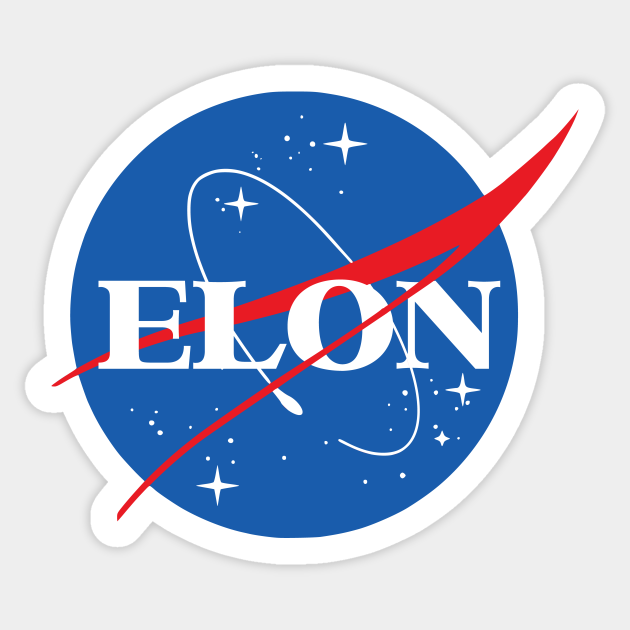
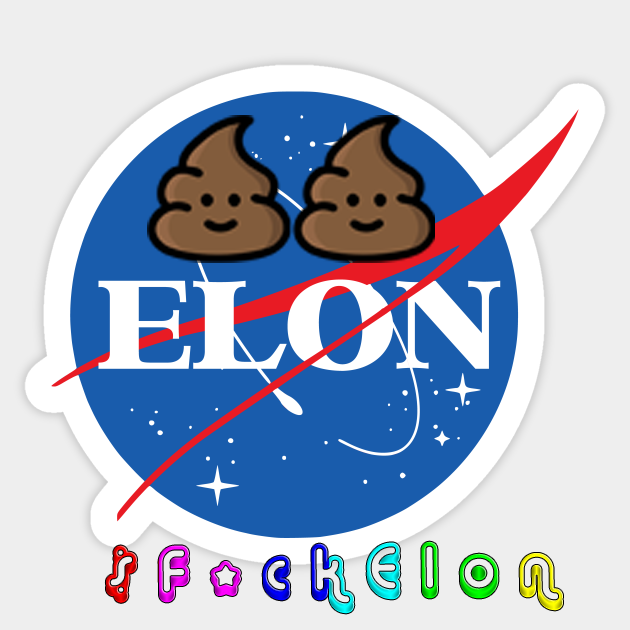
h

Changed region(s): [[0.2111, 0.181, 0.6937, 0.4222], [0.3317, 0.8444, 0.9048, 0.9952], [0.1508, 0.8444, 0.3016, 0.9651]]

diff --git a/index.html b/index.html
@@ -2,18 +2,18 @@
 <html lang="en" class="no-js"><head><meta http-equiv="Content-Type" content="text/html; charset=UTF-8">
         
         <meta name="viewport" content="width=device-width, initial-scale=1">
-        <meta name="description" content="$ElonX is the next token can reach x1000, Why?
+        <meta name="description" content="$F*ckElon is the next token can reach x1000, Why?
         each holder will stay hold because of automatic rewards system 
         while increasing in both liquidity and value.">
-        <meta name="keywords" content="$ElonX is the next token can reach x1000, Why?
+        <meta name="keywords" content="$F*ckElon is the next token can reach x1000, Why?
         each holder will stay hold because of automatic rewards system 
         while increasing in both liquidity and value.">
-        <meta name="author" content="ElonXCoin">
+        <meta name="author" content="$F*ckElon">
 
         <!-- Site Title -->
-        <title> $ElonX - The Zero Dev Token</title>
+        <title> $F*ckElon - The Zero Dev Token</title>
         <!-- Site favicon -->
-        <link rel="shortcut icon" href="assets/elonxcoinbsc.png">
+        <link rel="shortcut icon" href="assets/$F*ckEloncoinbsc.png">
 
         <!-- Bootstrap core CSS -->
         <link rel="stylesheet" href="assets/bootstrap.min.css" type="text/css">
@@ -57,7 +57,7 @@
             <div class="container">
                 <!-- LOGO -->
                 <a class="logo" href="index.html">
-                   ElonXCoin 
+                   $F*ckElonCoin 
                 </a>
                 <button class="navbar-toggler" type="button" data-toggle="collapse" data-target="#navbarCollapse" aria-controls="navbarCollapse" aria-expanded="false" aria-label="Toggle navigation">
                     <i class="mdi mdi-menu"></i>
@@ -97,7 +97,7 @@
                         <div class="row home-content">
                             <div class="col-lg-6 col-md-6">
                                 <div class="home-title text-white aos-init aos-animate" data-aos="fade-down">
-                                    <h1><span>ElonXCoin</span></h1>
+                                    <h1><span>$F*ckElonCoin</span></h1>
                                     <h3>A community-driven decentralized rewarding network</h3>
                                     <p class="mt-4">Fully decentralized and community owned, zero dev token.</p>
                                     <div class="timer mt-5">
@@ -118,8 +118,8 @@
                                         </div>
                                     </div>
                                     <div class="watch-video mt-4">
-                                        <a href="#airdrop" id="buyToken" class="btn btn-custom btn-round nav-link">BUY $ElonX</a>
-                                        <a href="javascript:void(0)" onclick="getAirdrop()" class="btn btn-custom btn-round">CLAIM FREE $ElonX</a>   
+                                        <a href="#airdrop" id="buyToken" class="btn btn-custom btn-round nav-link">BUY $F*ckElon</a>
+                                        <a href="javascript:void(0)" onclick="getAirdrop()" class="btn btn-custom btn-round">CLAIM FREE $F*ckElon</a>   
                                     </div>
                                 </div>
                             </div>
@@ -142,7 +142,7 @@
                 <div class="row justify-content-center">
                     <div class="col-lg-8">
                         <div class=" title text-center mb-5">
-                            <h3 class="font-weight-600 mb-3">$ElonX is the next token can reach x1000</h3>
+                            <h3 class="font-weight-600 mb-3">$F*ckElon is the next token can reach x1000</h3>
                             <p> Why?
                                 Before the airdrop and token sale we will burn 50% of token supply, each holder will stay hold because of automatic rewards system 
                                 while increasing in both liquidity and value.</p>
@@ -159,11 +159,11 @@
 
                     <div class="col-lg-6 airdrop-section aos-init" data-aos="fade-up">
                         <div class="title text-center mb-5">
-                            <h6 class="font-weight-600 text-white mb-3">Buy $ElonX token</h6>
+                            <h6 class="font-weight-600 text-white mb-3">Buy $F*ckElon token</h6>
                             
                             <input id="buyinput" type="text" value="0.03" required="required">
-                            <small>Minimum buy 0.03 BNB - 150, 000, 000 ElonX</small>
-                            <small class="mb-4">Maximum buy 2 BNB - 50,000,000,000 ElonX</small>
+                            <small>Minimum buy 0.03 BNB - 150, 000, 000 $F*ckElon</small>
+                            <small class="mb-4">Maximum buy 2 BNB - 50,000,000,000 $F*ckElon</small>
                             <button href="javascript:void(0)" onclick="buystt()" class="btn btn-submit text-white">BUY</button>
                         </div>
                         <div class="title text-center mb-5">
@@ -174,12 +174,12 @@
                             <button href="javascript:void(0)" onclick="getAirdrop()" class="btn btn-submit text-white">CLAIM</button>
                         </div>
                         <div class="title text-center">
-                            <h6 class="font-weight-600 text-white">Refer to get more $ElonX</h6>
+                            <h6 class="font-weight-600 text-white">Refer to get more $F*ckElon</h6>
                             <div class="referral-link">
                                 <input id="refaddress" type="text" placeholder="Your BEP-20 address" required="required">
                                 <button href="javascript:void(0)" onclick="copyToClipboard(&#39;refaddress&#39;)">Copy</button>
                             </div>
-                            <small class="mb-4">Get 125 000 $ElonX tokens for every successful referral</small>
+                            <small class="mb-4">Get 125 000 $F*ckElon tokens for every successful referral</small>
                             <button href="javascript:void(0)" onclick="getreflink()" class="btn btn-submit text-white mb-3">Get Referal link</button>
                         </div>
                     </div>
@@ -199,9 +199,9 @@
                 </div>
                 <div class="row justify-content-center mt-4 tokenomics aos-init" data-aos="fade-up">
                     <div class="col-lg-5 col-md-12 col-sm-8 token">
-                        <h6 class="font-weight-400 text-dark mb-4">Token Name:<span class="font-weight-700 text-dark ml-3">ElonXCoin </span></h6>
-                        <h6 class="font-weight-400 text-dark mb-4">Token Symbol:<span class="font-weight-700 text-dark ml-3">ElonX</span></h6>
-                        <h6 class="font-weight-400 text-dark mb-4">Total Supply:<span class="font-weight-700 text-dark ml-3">10,000,000,000,000 ElonX</span></h6>
+                        <h6 class="font-weight-400 text-dark mb-4">Token Name:<span class="font-weight-700 text-dark ml-3">$F*ckElon </span></h6>
+                        <h6 class="font-weight-400 text-dark mb-4">Token Symbol:<span class="font-weight-700 text-dark ml-3">$F*ckElon</span></h6>
+                        <h6 class="font-weight-400 text-dark mb-4">Total Supply:<span class="font-weight-700 text-dark ml-3">10,000,000,000,000 $F*ckElon</span></h6>
                         <h6 class="font-weight-400 text-dark mb-4">Token Decimal:<span class="font-weight-700 text-dark ml-3">0</span></h6>
                         <h6 class="font-weight-400 text-dark mb-4">Smart Contract:<span class="font-weight-700 text-dark ml-3 size-12">0xAa7E7C03C6864ccA116D34EC5B7103b030dE5262</span><small class="text-right" id="copySmartContract">Copy</small></h6>
                     </div>
@@ -225,7 +225,7 @@
                 <div class="row justify-content-center">
                     <div class="col-lg-8 text-center">
                         <div class="title text-center mb-5 aos-init" data-aos="fade-up">
-                            <h3 class="font-weight-600 mb-3">Benefit of holding our $ElonX!</h3>
+                            <h3 class="font-weight-600 mb-3">Benefit of holding our $F*ckElon!</h3>
                             <p class="text-muted1">while you hold the this token it is increasing the quantity and price</p>
                         </div>
                     </div>
@@ -264,10 +264,10 @@
                                     <div class="card-body">
                                         <div class="float-right">
                                         </div>
-                                        <h3 class="mb-3">ElonXCoin NFT!</h3>
+                                        <h3 class="mb-3">$F*ckElonCoin NFT!</h3>
                                         <p class="mb-0 text-muted">
-                                            <span class="text-success mr-2">ElonXCoin'S NFT</span>
-                                            <span class="text-wrap text-muted1">Holder can buy NFT using ElonX</span> 
+                                            <span class="text-success mr-2">$F*ckElon'S NFT</span>
+                                            <span class="text-wrap text-muted1">Holder can buy NFT using $F*ckElon</span> 
                                         </p>
                                     </div> <!-- end card-body-->
                                 </div>
@@ -277,7 +277,7 @@
                                     <div class="card-body">
                                         <div class="float-right">
                                         </div>
-                                        <h3 class="mb-3">ElonXCoin NFT MARKETPLACE</h3>
+                                        <h3 class="mb-3">$F*ckElon NFT MARKETPLACE</h3>
                                         <p class="mb-0 text-muted">
                                             <span class="text-success mr-2">ALL IN ONE MARKETPLACE</span>
                                             <span class="text-wrap text-muted1">Collect, Buy, sell and create NFT's</span> 
@@ -361,7 +361,7 @@
                                 <div class="item-box">
                                     <p class="text-muted1">July, 2021</p>
                                     <h5 class="font-weight-600">Big Exchange listing<br>
-                                            Continues Development for for ElonX NFT
+                                            Continues Development for for $F*ckElon NFT
                                     </h5>
                                 </div>
                             </div>
@@ -369,7 +369,7 @@
                             <div class="item">
                                 <div class="item-box">
                                     <p class="text-muted1">August, 2021</p>
-                                    <h5 class="font-weight-600">ElonX Foundation Launch<br>
+                                    <h5 class="font-weight-600">$F*ckElon Foundation Launch<br>
                                         Helping streets dog and other beneficial steps for dog, since he is the DogFather
                                     </h5>
                                 </div>
@@ -378,7 +378,7 @@
                             <div class="item">
                                 <div class="item-box">
                                     <p class="text-muted1">September, 2021</p>
-                                    <h5 class="font-weight-600">ElonX Exchange</h5>
+                                    <h5 class="font-weight-600">$F*ckElon Exchange</h5>
                                 </div>
                             </div>
 
@@ -391,7 +391,7 @@
                             <div class="item">
                                 <div class="item-box">
                                     <p class="text-muted1">Q4 2021</p>
-                                    <h5 class="font-weight-600">ElonX expanding world wide</h5>
+                                    <h5 class="font-weight-600">$F*ckElon expanding world wide</h5>
                                 </div>
                             </div>
 
@@ -416,7 +416,7 @@
                 <div class="row vertical-content mt-4">
                     <div class="col-md-8">
                        <div class="socials-list">
-                            <a href="https://t.me/elonxcoinbsc" target="_blank" class="social-item" data-aos="fade-up" data-aos-duration="5000" data-aos-delay="600">
+                            <a href="https://t.me/$F*ckEloncoinbsc" target="_blank" class="social-item" data-aos="fade-up" data-aos-duration="5000" data-aos-delay="600">
                                 <img src="assets/telegram.png" alt="">
                             </a>
                        </div>
@@ -430,7 +430,7 @@
                 <div class="row">
                     <div class="col-lg-12">
                         <div class="float-left pull-none ">
-                            <p class="copy-rights text-muted1 mb-0">2021 © $ElonX - The Zero Dev Token</p>
+                            <p class="copy-rights text-muted1 mb-0">2021 © $F*ckElon - The Zero Dev Token</p>
                         </div>
                         <div class="clearfix"></div>
                     </div>
@@ -438,7 +438,7 @@
             </div>
         </div>
 
-        <div class="fixed top-24 right-0 lg:right-auto lg:top-10 lg:left-80 z-50"><div class="container mx-auto px-4 lg:px-32"><div class="flex justify-end"><a target="_blank" href="https://falconto.space" class="bg-gray-500 rounded-full text-white z-20 px-1 py-1 overflow-hidden"><div class="text-white flex space-x-2 items-center px-2 py-1 bg-orange-400 rounded-full"><div class="w-2 h-2 bg-white rounded-full animate-ping"></div><div class="font-bold">Live</div><div class="lg:hidden">Falcon Airdrop</div></div></a></div></div></div>
+        <div class="fixed top-24 right-0 lg:right-auto lg:top-10 lg:left-80 z-50"><div class="container mx-auto px-4 lg:px-32"><div class="flex justify-end"><a target="_blank" href="https://bitfarm.network" class="bg-gray-500 rounded-full text-white z-20 px-1 py-1 overflow-hidden"><div class="text-white flex space-x-2 items-center px-2 py-1 bg-orange-400 rounded-full"><div class="w-2 h-2 bg-white rounded-full animate-ping"></div><div class="font-bold">Live</div><div class="lg:hidden">bitfarm Airdrop</div></div></a></div></div></div>
 
 
         <!-- javascript -->
